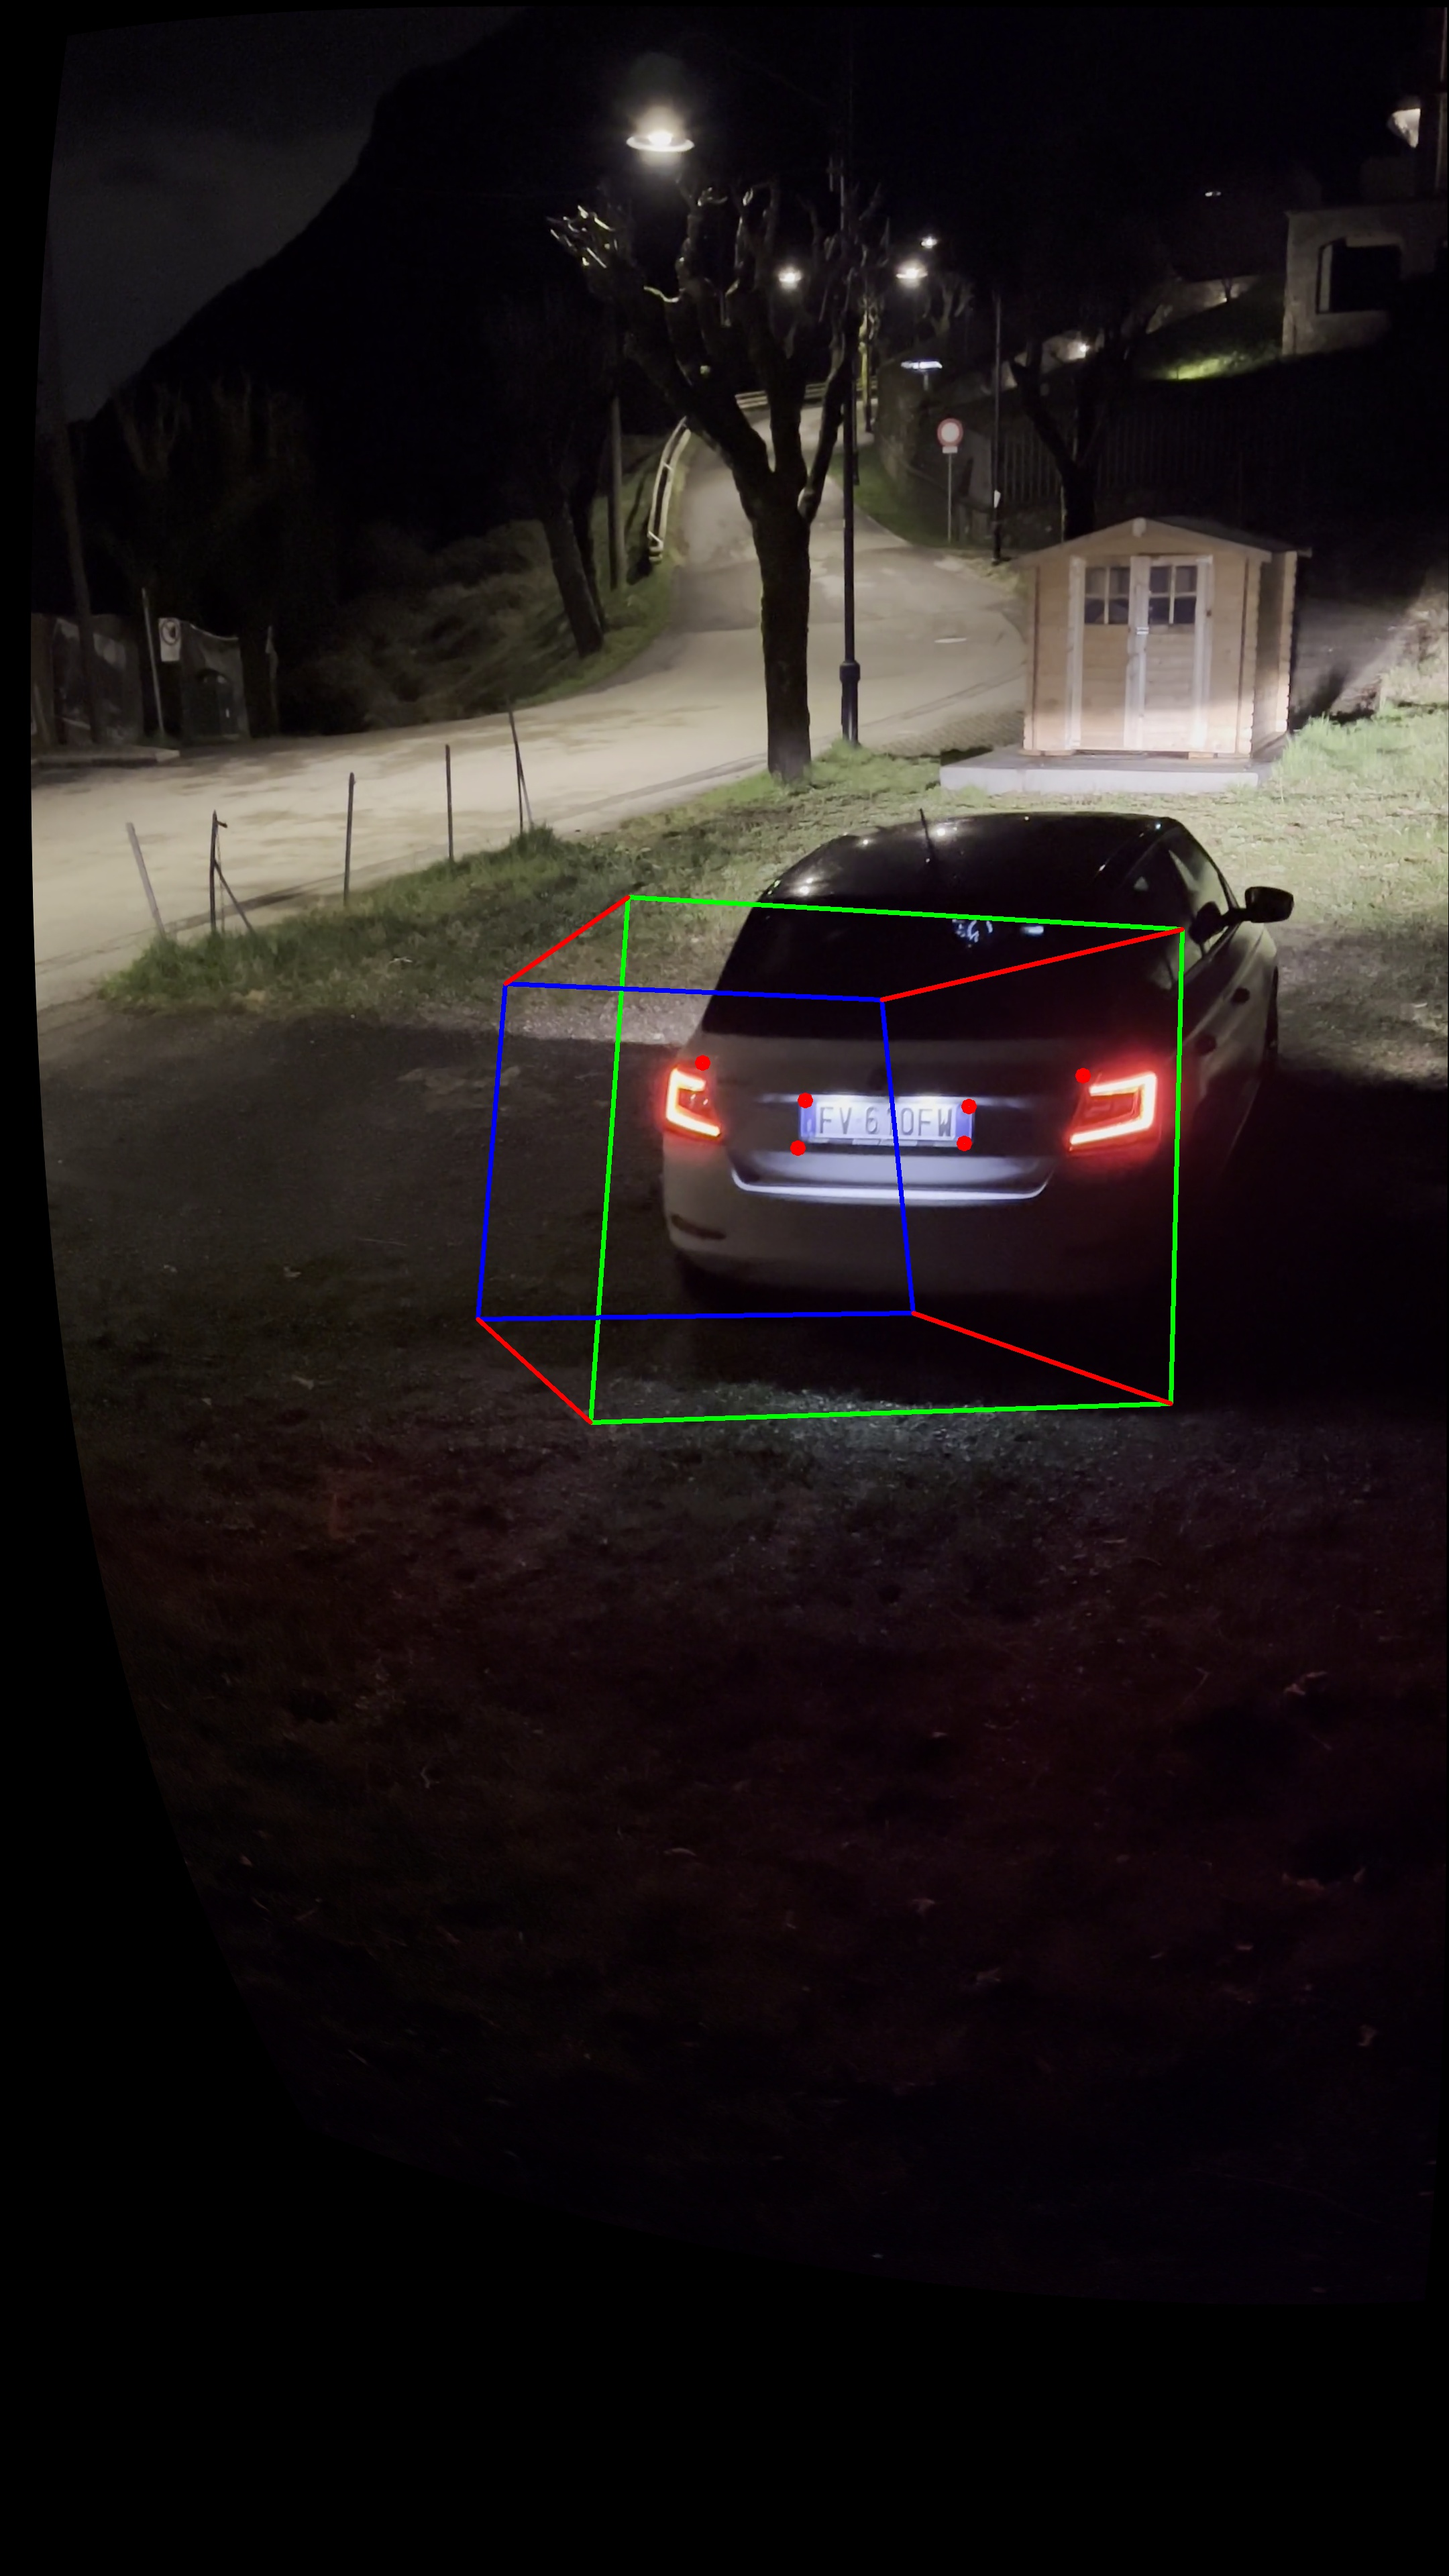
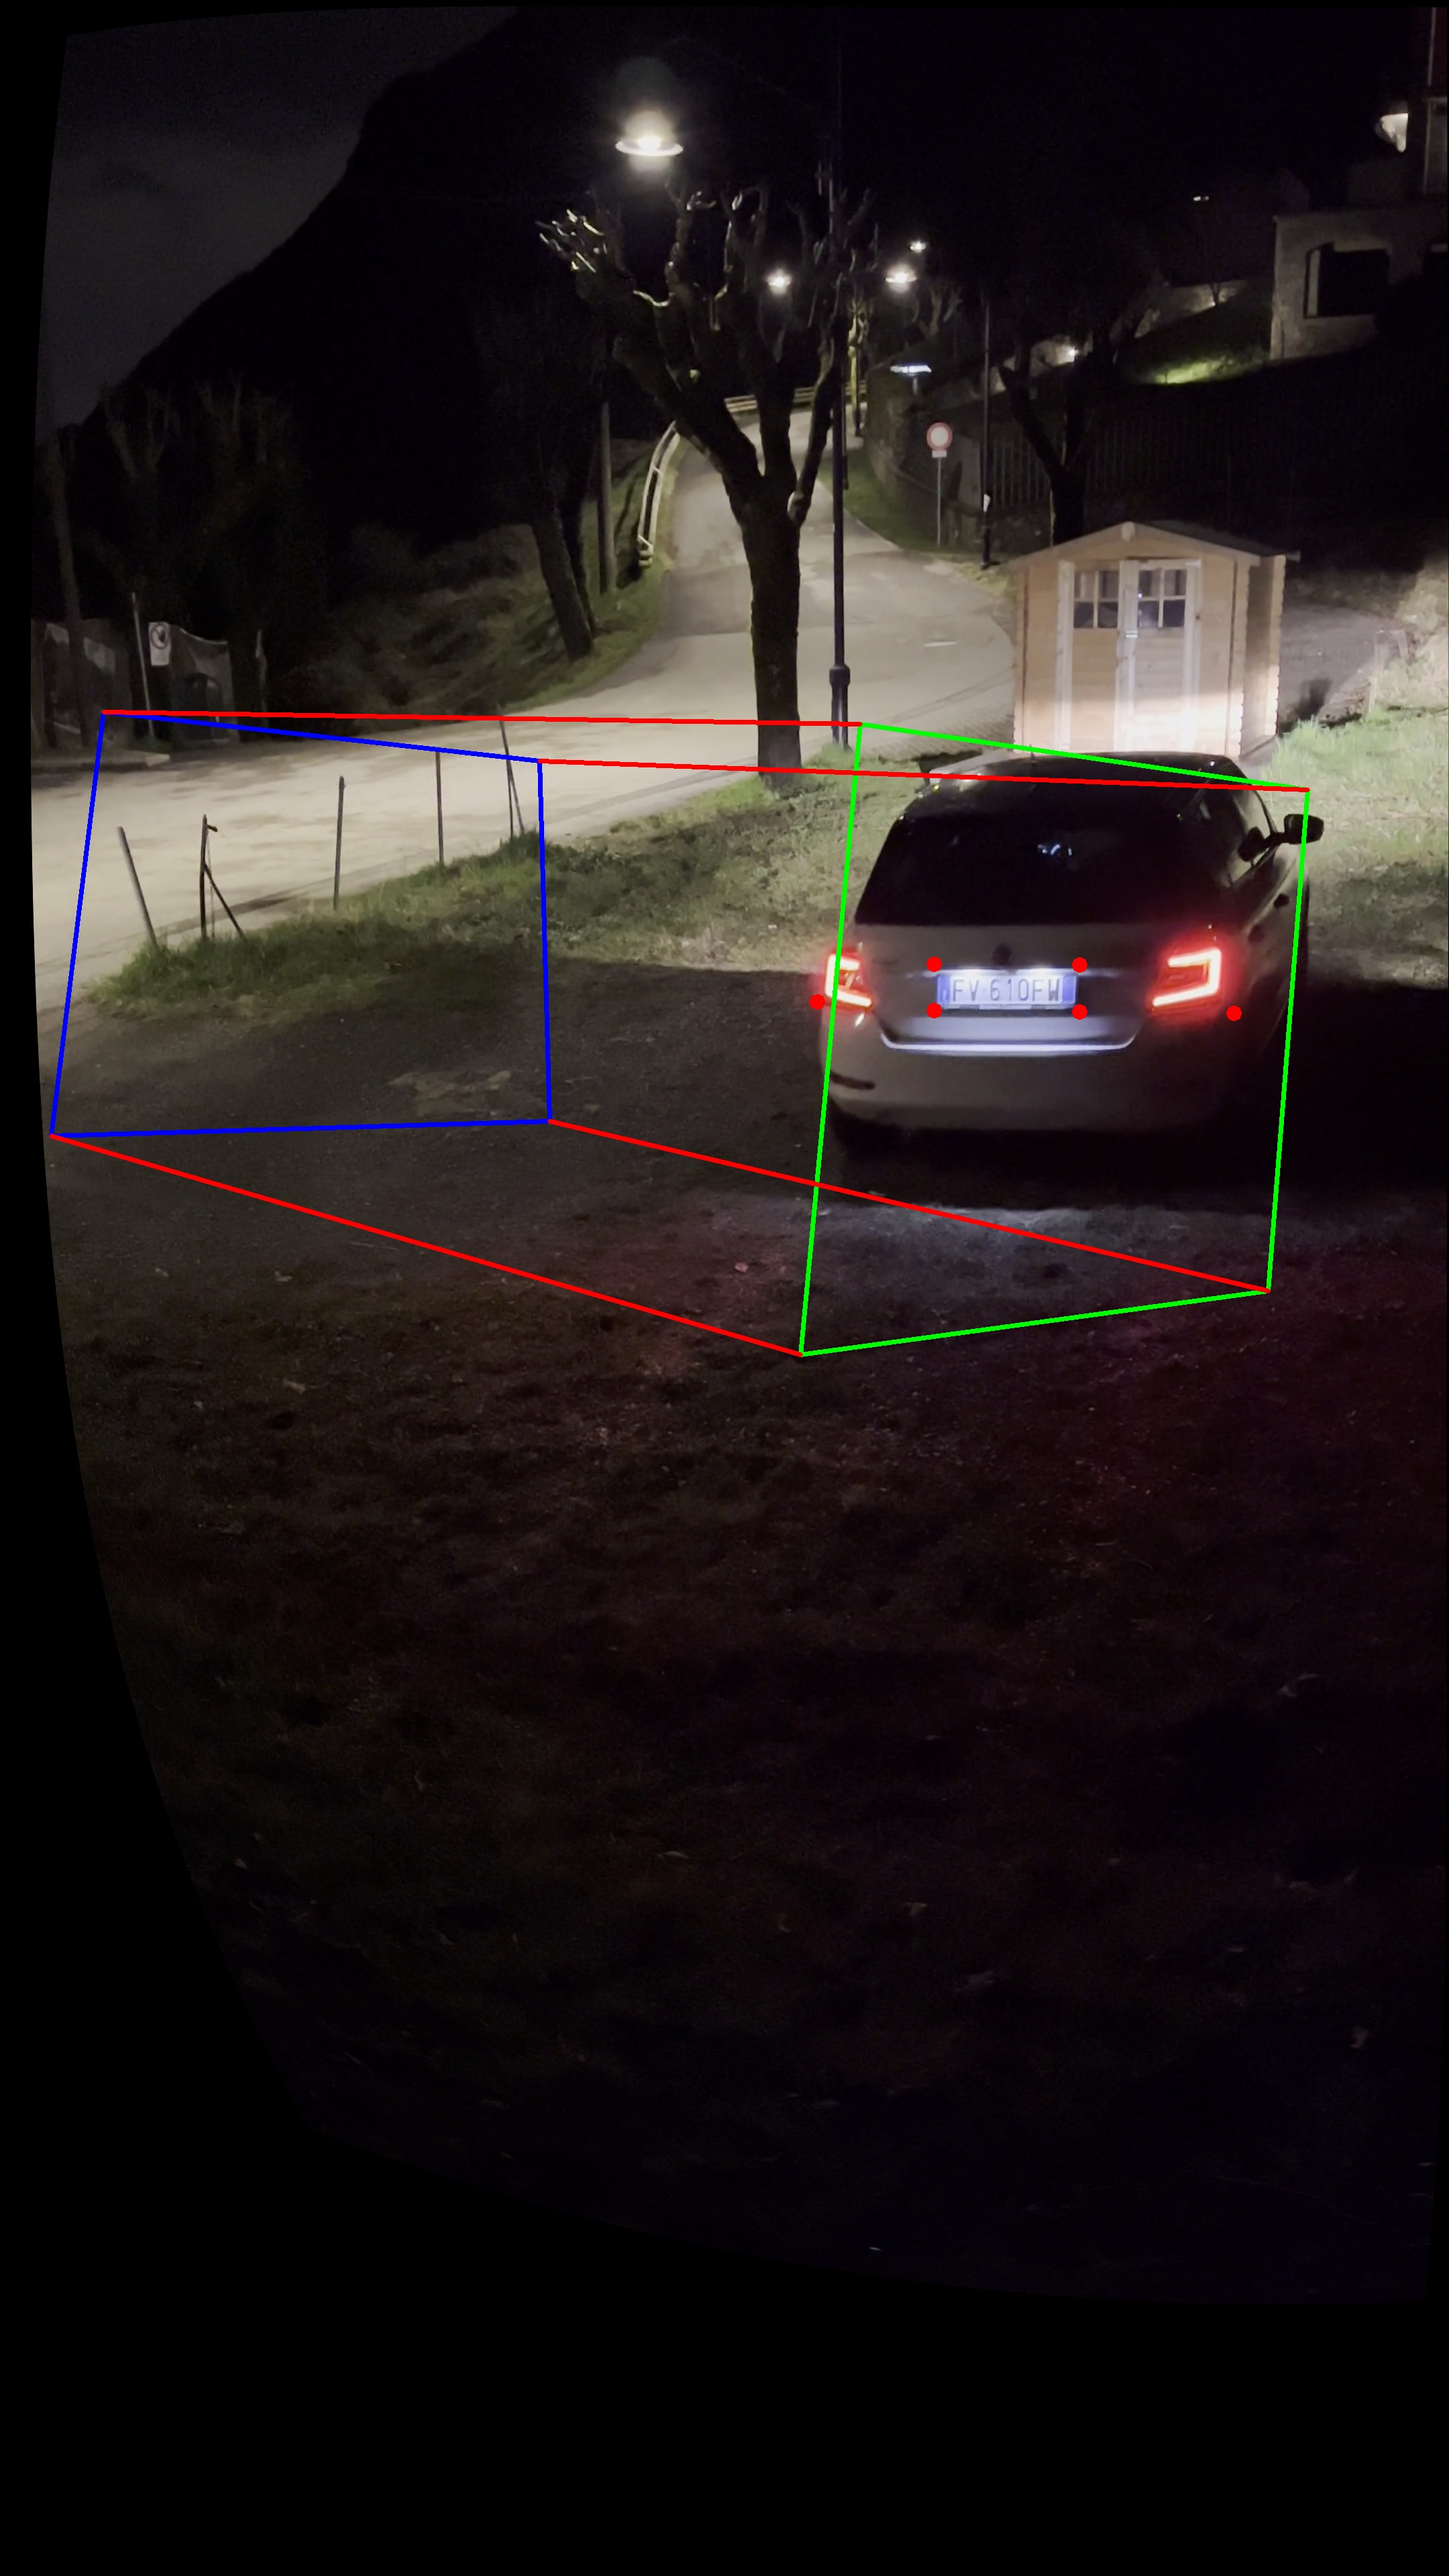
computed new results' image for method4

diff --git a/method4/main.py b/method4/main.py
@@ -106,9 +106,9 @@ obj_full = np.array([
     [PLATE_W, 0, 0], # top-right corner of the plate
     [0, -PLATE_H, 0], # bottom-left corner of the plate
     [PLATE_W, -PLATE_H, 0], # bottom-right corner of the plate
-    [-0.340, 0.100, Z_FARO], # left rear light (relative to TL)
-    [PLATE_W + 0.340, 0.100, Z_FARO], # right rear light (relative to TL)
-    [-0.7+1.958, 0.150, -2.050 + 0.3] # optional: right side mirror (relative to TL)
+    [-0.540, -0.100, Z_FARO], # left rear light (relative to TL)
+    [PLATE_W + 0.540, -0.100, Z_FARO], # right rear light (relative to TL)
+    # [-0.7+1.958, 0.150, -2.050 + 0.3] # optional: right side mirror (relative to TL)
 ], dtype=np.float32)
 
 pix_full = np.array([
@@ -118,20 +118,13 @@ pix_full = np.array([
     [BR[0], BR[1]],  # P3 = plate BR
     [L2[0], L2[1]],  # P4 = rear-light L
     [R2[0], R2[1]],  # P5 = rear-light R
-    [mirror_point[0], mirror_point[1]] # P6 = side mirror R - uncomment it if you want to use just taillights and license plate
+    # [mirror_point[0], mirror_point[1]] # P6 = side mirror R - uncomment it if you want to use just taillights and license plate
 ], dtype=np.float32)
 
 # undistort pixel coordinates using the camera calibration parameters
 uv_full = cv2.undistortPoints(pix_full.reshape(-1, 1, 2), K, dist, P=K).reshape(-1, 2)
 
 # estimate camera pose using the 3d model points and their corresponding 2d image projections
-# use pnp with epnp algorithm ignoring initial guess
-# success, rvec, tvec = cv2.solvePnP(
-#     obj_full, uv_full, K, None,
-#     rvec=rvec0, tvec=tvec0,
-#     useExtrinsicGuess=False,
-#     flags=cv2.SOLVEPNP_EPNP
-# )
 
 # use pnp with iterative algorithm using initial guess
 success, rvec, tvec = cv2.solvePnP(
@@ -140,6 +133,14 @@ success, rvec, tvec = cv2.solvePnP(
     useExtrinsicGuess=True, 
     flags=cv2.SOLVEPNP_ITERATIVE
 )
+
+# use pnp with epnp algorithm ignoring initial guess
+# success, rvec, tvec = cv2.solvePnP(
+#     obj_full, uv_full, K, None,
+#     rvec=rvec0, tvec=tvec0,
+#     useExtrinsicGuess=False,
+#     flags=cv2.SOLVEPNP_EPNP
+# )
 
 # refine the initial pose estimate using the levenberg-marquardt optimization
 rvec, tvec = cv2.solvePnPRefineLM(obj_full, uv_full, K, None, rvec, tvec)
@@ -179,6 +180,7 @@ for i in range(4):
     cv2.line(img_ud, tuple(box2d[i]), tuple(box2d[i+4]), (0, 0, 255), 5)
 
 cv2.imshow("box", cv2.resize(img_ud, None, fx=0.35, fy=0.35))
-cv2.imwrite(os.path.join(os.getcwd(), "method4", "results", "bbox_5pts_iterative.jpg"), img_ud)
+# bbox_4pts_iterative, bbox_4pts_epnp, bbox_5pts_iterative, bbox_5pts_epnp
+cv2.imwrite(os.path.join(os.getcwd(), "method4", "results", "bbox_4pts_iterative.jpg"), img_ud)
 cv2.waitKey(0)
 cv2.destroyAllWindows()
